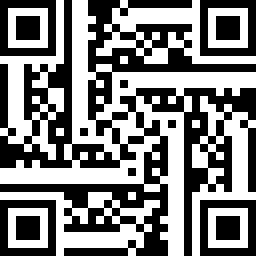
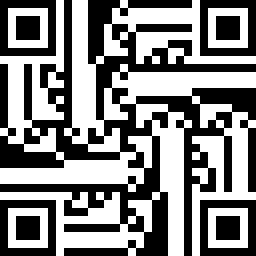
adicionado comentários, otimizações no código.

diff --git a/src/main.c b/src/main.c
@@ -24,7 +24,8 @@ int main () {
 	char *nomeP = {"../resultados/ALCPic.png"};
 	blocks *binaryMessage;
 	int bsize;
-	bsize = messageToBinary(&binaryMessage, "abserglajdlckejtlsjcjgls");
+	bsize = messageToBinary(&binaryMessage, "abcdefghijklmnopqrstuvwxyz");
+	//printBlocks(&binaryMessage, bsize);
 	Imagem *ALCimg, *ALCpic;
 	
 	int ALsize = 16;
@@ -47,6 +48,13 @@ int main () {
 	return 0;
 }
 
+/*  
+	int messageToBinary(blocks **b, char *message)
+
+	Função para transformar cada caracter da mensagem em binário.
+	Recebe como parâmetro um vetor de estruturas "blocks" (blocks **b) e um vetor
+	de caracteres (char *message) e retorna o tamanho final da estrutura.
+*/
 int messageToBinary(blocks **b, char *message) {
 	int aux;
 	unsigned int size = (unsigned) strlen(message);
@@ -56,43 +64,26 @@ int messageToBinary(blocks **b, char *message) {
 		aux = message[i];
 		((*b)[i]).decimalValue = (unsigned) aux;		
 
-		if(aux - 128 > -1) {
-			aux -= 128;
-			((*b)[i]).binaryValue[0] = true;
-		}
-		if(aux - 64 > -1) {
-			aux -= 64;
-			((*b)[i]).binaryValue[1] = true;
-		}
-		if(aux - 32 > -1) {
-			aux -= 32;
-			((*b)[i]).binaryValue[2] = true;
-		}
-		if(aux - 16 > -1) {
-			aux -= 16;
-			((*b)[i]).binaryValue[3] = true;
-		}
-		if(aux - 8 > -1) {
-			aux -= 8;
-			((*b)[i]).binaryValue[4] = true;
-		}
-		if(aux - 4 > -1) {
-			aux -= 4;
-			((*b)[i]).binaryValue[5] = true;
-		}
-		if(aux - 2 > -1) {
-			aux -= 2;
-			((*b)[i]).binaryValue[6] = true;
-		}
-		if(aux - 1 > -1) {
-			aux -= 1;
-			((*b)[i]).binaryValue[7] = true;
+		int base = 128;
+		for(int j = 0; j < 8; j += 1) {
+			if(aux - base > -1) {
+				aux -= base;
+				((*b)[i]).binaryValue[j] = true;
+			}
+			base /= 2;
 		}
 	}
 
 	return size;
 }
 
+/*  
+	bool ** initALcode(int ALsize, blocks **b, int bsize)
+
+	Função que retorna a matriz do ALcode dinâmicamente alocada, que é um quarteto da imagem final.
+	Recebe como parâmetro o tamanho que a matriz terá (int ALsize), a mensagem a ser inserida (blocks **b)
+	e o tamanho da mensagem (int bsize).	
+*/
 bool ** initALcode(int ALsize, blocks **b, int bsize) {
 
 	if(ALsize < 7) {
@@ -115,43 +106,37 @@ bool ** initALcode(int ALsize, blocks **b, int bsize) {
 		matrix[i][7] = 1;
 	}
 
-	for(int i = 0; i < 8; i += 1) {
-		if(bsize > i) {
-			for(int j = 0; j < 8; j += 1) {
-					matrix[i][j + 8] = ((*b)[i]).binaryValue[j];
-			}
-		}
-		else
-			break;
+	for(int i = 0; i < 8 && bsize > i; i += 1) {		
+		for(int j = 0; j < 8; j += 1) {
+				matrix[i][j + 8] = ((*b)[i]).binaryValue[j];
+		}	
 	}
 
-	for(int i = 8; i < ALsize; i += 1) {
-		if(bsize > i) {
-			for(int j = 0; j < 8; j += 1) {
-				matrix[i][j] = ((*b)[i]).binaryValue[j];
-			}
-		}
-		else
-			break;
+	for(int i = 8; i < ALsize && bsize > i; i += 1) {		
+		for(int j = 0; j < 8; j += 1) {
+			matrix[i][j] = ((*b)[i]).binaryValue[j];
+		}		
 	}
 
-	for(int i = 8; i < ALsize; i += 1) {
-		if(bsize > i + 8) {
-			for(int j = 0; j < 8; j += 1) {
-				matrix[i][j + 8] = ((*b)[i + 8]).binaryValue[j];
-			}
-		}
-		else
-			break;
+	for(int i = 8; i < ALsize && bsize > i + 8; i += 1) {		
+		for(int j = 0; j < 8; j += 1) {
+			matrix[i][j + 8] = ((*b)[i + 8]).binaryValue[j];
+		}		
 	}
 	
 	return matrix;
 }
 
+/*  
+	void printMatrix(bool **matrix, int size)
+
+	Imprime uma matriz, recebe como parâmetro uma matriz quadrada booleana (bool **matrix)
+	e o seu tamanho (int size) e imprime todos os seus elementos.
+*/
 void printMatrix(bool **matrix, int size) {
 	if(matrix) {
 		for(int i = 0; i < size; i += 1) {
-			for(int j = 0; j < size; j += 1) {			
+			for(int j = 0; j < size; j += 1) {
 				printf("%d ", matrix[i][j]);
 			}
 			printf("\n");
@@ -161,6 +146,13 @@ void printMatrix(bool **matrix, int size) {
 		printf("Erro, a matriz nao existe.\n");
 }
 
+/* 
+	void printBlocks(blocks **b, int size)
+
+	Imprime um vetor de estruturas "blocks", recebe como parâmetro 
+	os blocos (blocks **b) e quantos deles são (int size)
+	e imprime todos os seus elementos.
+*/
 void printBlocks(blocks **b, int size) {
 	if(b) {
 		for(int i = 0; i < size; i += 1) {
@@ -177,6 +169,13 @@ void printBlocks(blocks **b, int size) {
 		printf("Erro, os blocos nao existem.");
 }
 
+/*	
+	bool ** transpose(bool **matrix, int size)
+
+	Função que recebe como parâmetro uma matriz quadrada booleana (bool **matrix) e 
+	o seu tamanho (int size) e retorna a "transposta" dela, onde a primeira linha da 
+	matriz de entrada vira a última coluna da matriz de saída.
+*/
 bool ** transpose(bool **matrix, int size) {
 	bool **transpose = malloc(size * sizeof(bool *));
 	for(int i = 0; i < size; i += 1) transpose[i] = malloc(size * sizeof(bool));
@@ -190,6 +189,12 @@ bool ** transpose(bool **matrix, int size) {
 	return transpose;
 }
 
+/*  
+	void matrixToImage(Imagem *ALCimg, bool **ALCmatrix)
+
+	Função que "transcreve" a matriz do ALcode para uma imagem.
+	Recebe como parâmetro a imagem (Imagem *ALCimg) e a matriz (bool **ALCmatrix).
+*/
 void matrixToImage(Imagem *ALCimg, bool **ALCmatrix) {
 	int line = 0;
 	int column = 0;
